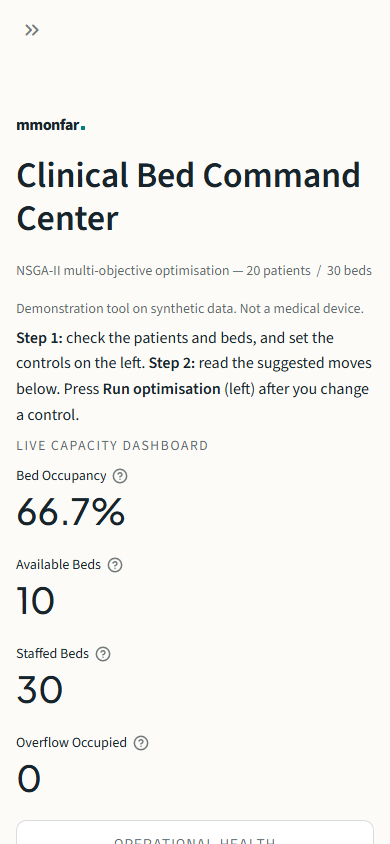
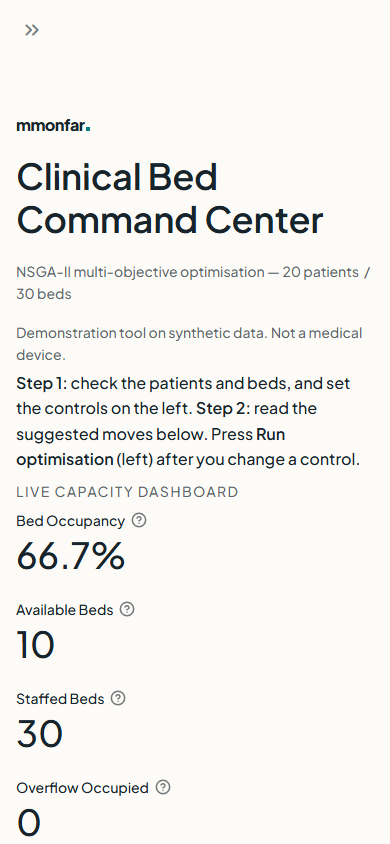
Brand round 2: Plus Jakarta Sans via theme, pill buttons, 10px boxes, brand notices (no red/blue), heatmap and slider labels AA, focus ring on toggle, README fix

diff --git a/src/ui/dashboard.py b/src/ui/dashboard.py
@@ -92,6 +92,16 @@ st.markdown(
       .mm-brandline {{ font-weight: 800; font-size: 1.15rem; letter-spacing: -0.03em; margin: 0; color: {_text}; }}
       .mm-brandline i {{ display: inline-block; width: 0.25em; height: 0.25em; margin-left: 2px; background: #008080; }}
 
+      .stApp, .stApp p, .stApp label, .stApp h1, .stApp h2, .stApp h3, .stApp li {{ font-family: 'Plus Jakarta Sans', 'Segoe UI', system-ui, sans-serif; }}
+      [data-testid="stSliderTickBar"], [data-testid="stSliderTickBar"] * {{ color: {_text} !important; }}
+      label:has(input[type="checkbox"]:focus-visible) {{ outline: 3px solid #008080; outline-offset: 3px; border-radius: var(--mm-radius-small); }}
+      .mm-notice {{
+        background: {_surface}; border: 1px solid {_border}; border-left: 3px solid {_C["accent"]};
+        border-radius: var(--mm-radius-card); padding: 12px 18px; margin: 8px 0;
+        color: {_text}; font-size: 0.95em; line-height: 1.5;
+      }}
+      .mm-notice b {{ font-weight: 800; letter-spacing: 0.04em; }}
+      .mm-notice.urgent {{ border-left-width: 8px; border-color: {_text}; font-weight: 800; }}
       .metric-box {{
         background: {_surface}; border: 1px solid {_border};
         border-radius: var(--mm-radius-card); padding: 12px 18px; text-align: center;
@@ -116,6 +126,13 @@ st.markdown(
     """,
     unsafe_allow_html=True,
 )
+
+def _notice(text: str, urgent: bool = False) -> None:
+    """Brand notice box. Urgent = heavy weight, thick slate rule, no red."""
+    import html as _html
+    cls = "mm-notice urgent" if urgent else "mm-notice"
+    st.markdown(f"<div class='{cls}' role='status'>{_html.escape(text)}</div>", unsafe_allow_html=True)
+
 
 # ---------------------------------------------------------------------------
 # Data loading
@@ -229,8 +246,8 @@ def _build_density_heatmap(
         plot_bgcolor=_C["surface"],
         margin=dict(l=20, r=20, t=45, b=20),
         height=400,
-        xaxis=dict(tickfont=dict(size=11)),
-        yaxis=dict(tickfont=dict(size=11)),
+        xaxis=dict(tickfont=dict(size=11, color=_C["text"])),
+        yaxis=dict(tickfont=dict(size=11, color=_C["text"])),
     )
     return fig
 
@@ -644,9 +661,10 @@ with st.sidebar:
 if surge_mode:
     effective_penalties: dict[str, int] = {k: 1 for k in BASE_PENALTIES}
     effective_cap: int = len(_patients)
-    st.error(
+    _notice(
         "EMERGENCY DEPARTMENT SURGE MODE ACTIVE -- Clinical Home penalties suppressed. "
         "All transfers permitted. Capacity Throughput is the priority objective.",
+        urgent=True,
     )
 else:
     effective_penalties = {
@@ -778,9 +796,10 @@ with cap5:
     )
 
 if surge_active:
-    st.error(
+    _notice(
         f"SURGE PROTOCOL ACTIVE -- {overflow_used} overflow bed(s) occupied "
         "in the recommended plan. Escalate to Nursing Supervisor.",
+        urgent=True,
     )
 
 # Discharge forecast row -- only rendered when discharge data is entered
@@ -825,7 +844,7 @@ if confirmed_discharges > 0 or estimated_discharges > 0:
             help="Beds likely empty by next shift. Included in Projected Available.",
         )
     if use_projected and n_confirmed > 0:
-        st.info(
+        _notice(
             f"Pre-Assignment Mode: {n_confirmed} confirmed-discharge patient(s) "
             "removed from the optimisation. Their beds are available for "
             "incoming admissions in the plan below.",
@@ -1010,7 +1029,7 @@ if plan.actions:
         height=min(400, 42 + 36 * len(records)),
     )
 else:
-    st.info("No directives for this solution. All patients are optimally placed.")
+    _notice("No directives for this solution. All patients are optimally placed.")
 
 # ---------------------------------------------------------------------------
 # Export

diff --git a/README.md b/README.md
@@ -56,7 +56,6 @@ src/
   ui/
     dashboard.py         Streamlit command center
 
-brand_style.css          mmonfar brand identity (cream / slate / teal)
 remotion-video/          45-50s NSGA-II explainer video (React + Remotion + Three.js)
 ```
 
